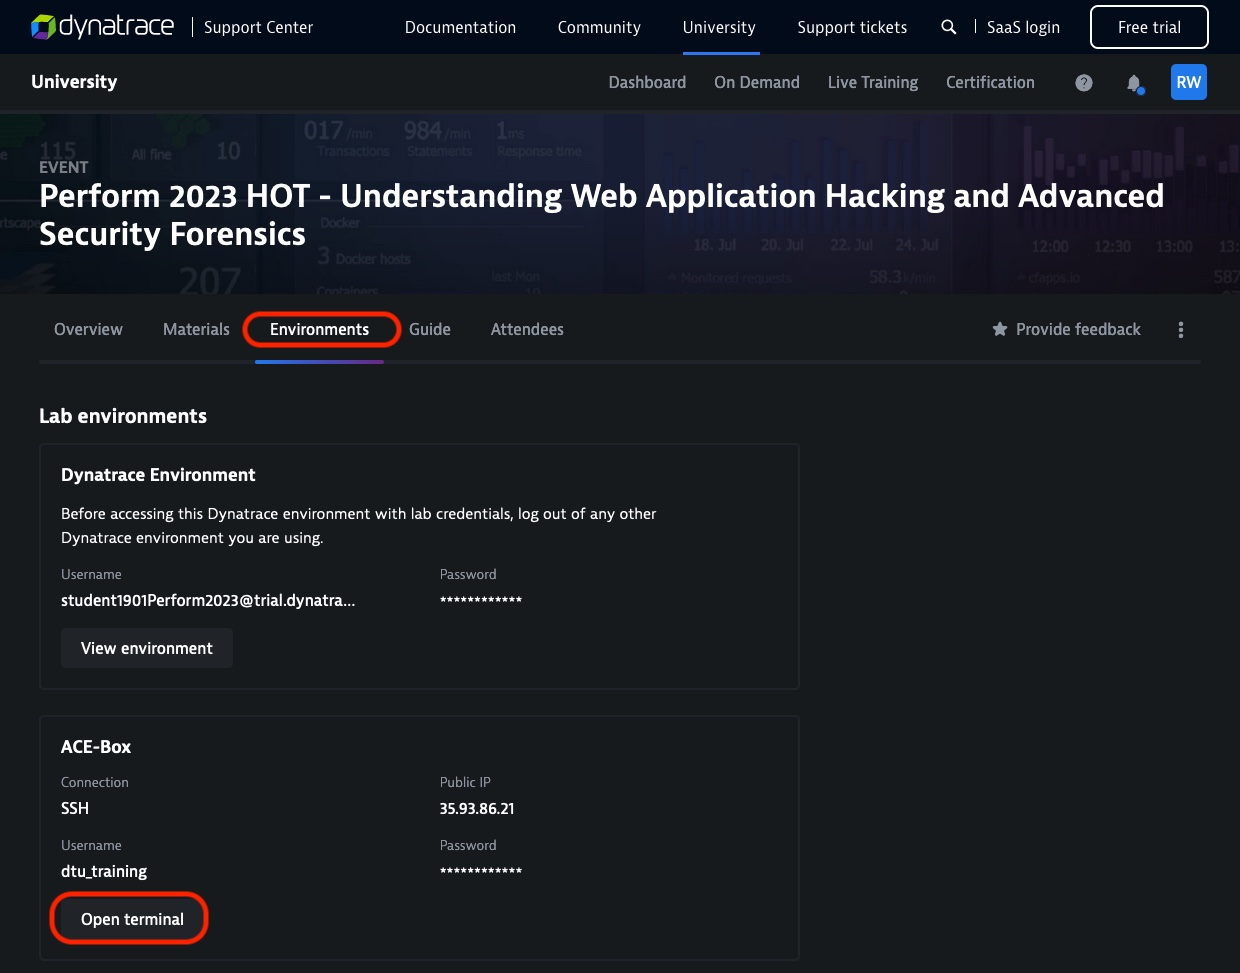
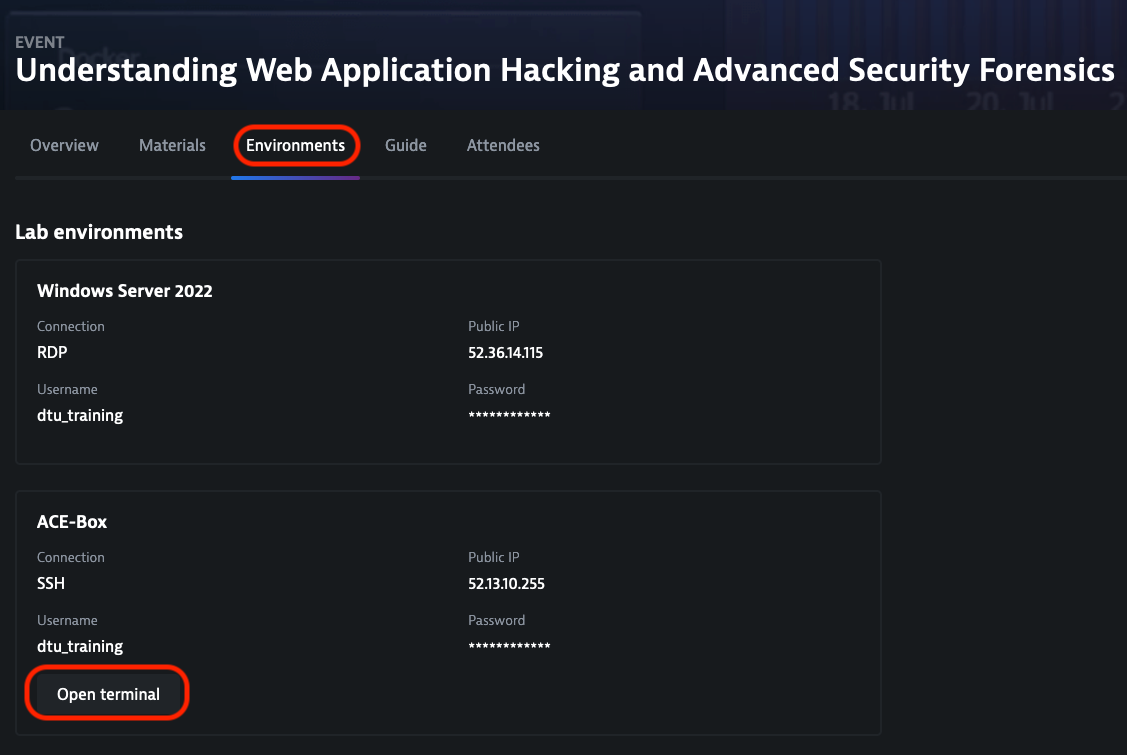
updated RDP information

diff --git a/Understanding WebApp Hacking and Forensics/content/01_injection_attacks/index.md b/Understanding WebApp Hacking and Forensics/content/01_injection_attacks/index.md
@@ -19,12 +19,18 @@ The dashboard contains the links for the Dynatrace environment (you should alrea
 
 Click on the insecure-bank tab and then on the insecure-bank link. 
 
+| Since we are going to launch injection attacks on this application, it is recommended to connect to the provided Windows host to access the insecure-bank website
+In your environment details in the Dynatrace University you will find connection information to connect to a Windows instance using RDP. Use any RDP client to open a connection, on Windows there is probably already one installed, on Mac you can download it from the App Store. 
+
+![RDP](../../assets/images/1-4-RDP.png)
+Once you connected to the Windows instance, use the insecure-bank URL from the dashboard.
+
 ### Insecure-bank
 Insecure-bank is a demo application that has several security flaws. Take some time to explore the application and see if you can find a way to bypass the login. 
 
 | Objectif: find a way to access one of the accounts without using the correct credentials.
 
-![](../../assets/images/1-4-insecure-bank.png)
+![](../../assets/images/1-5-insecure-bank.png)
 
 | **HINT**
 | There are two accounts on insecure-bank. You can use the following credentials to access them, but the goal is to get access without providing a password. 
